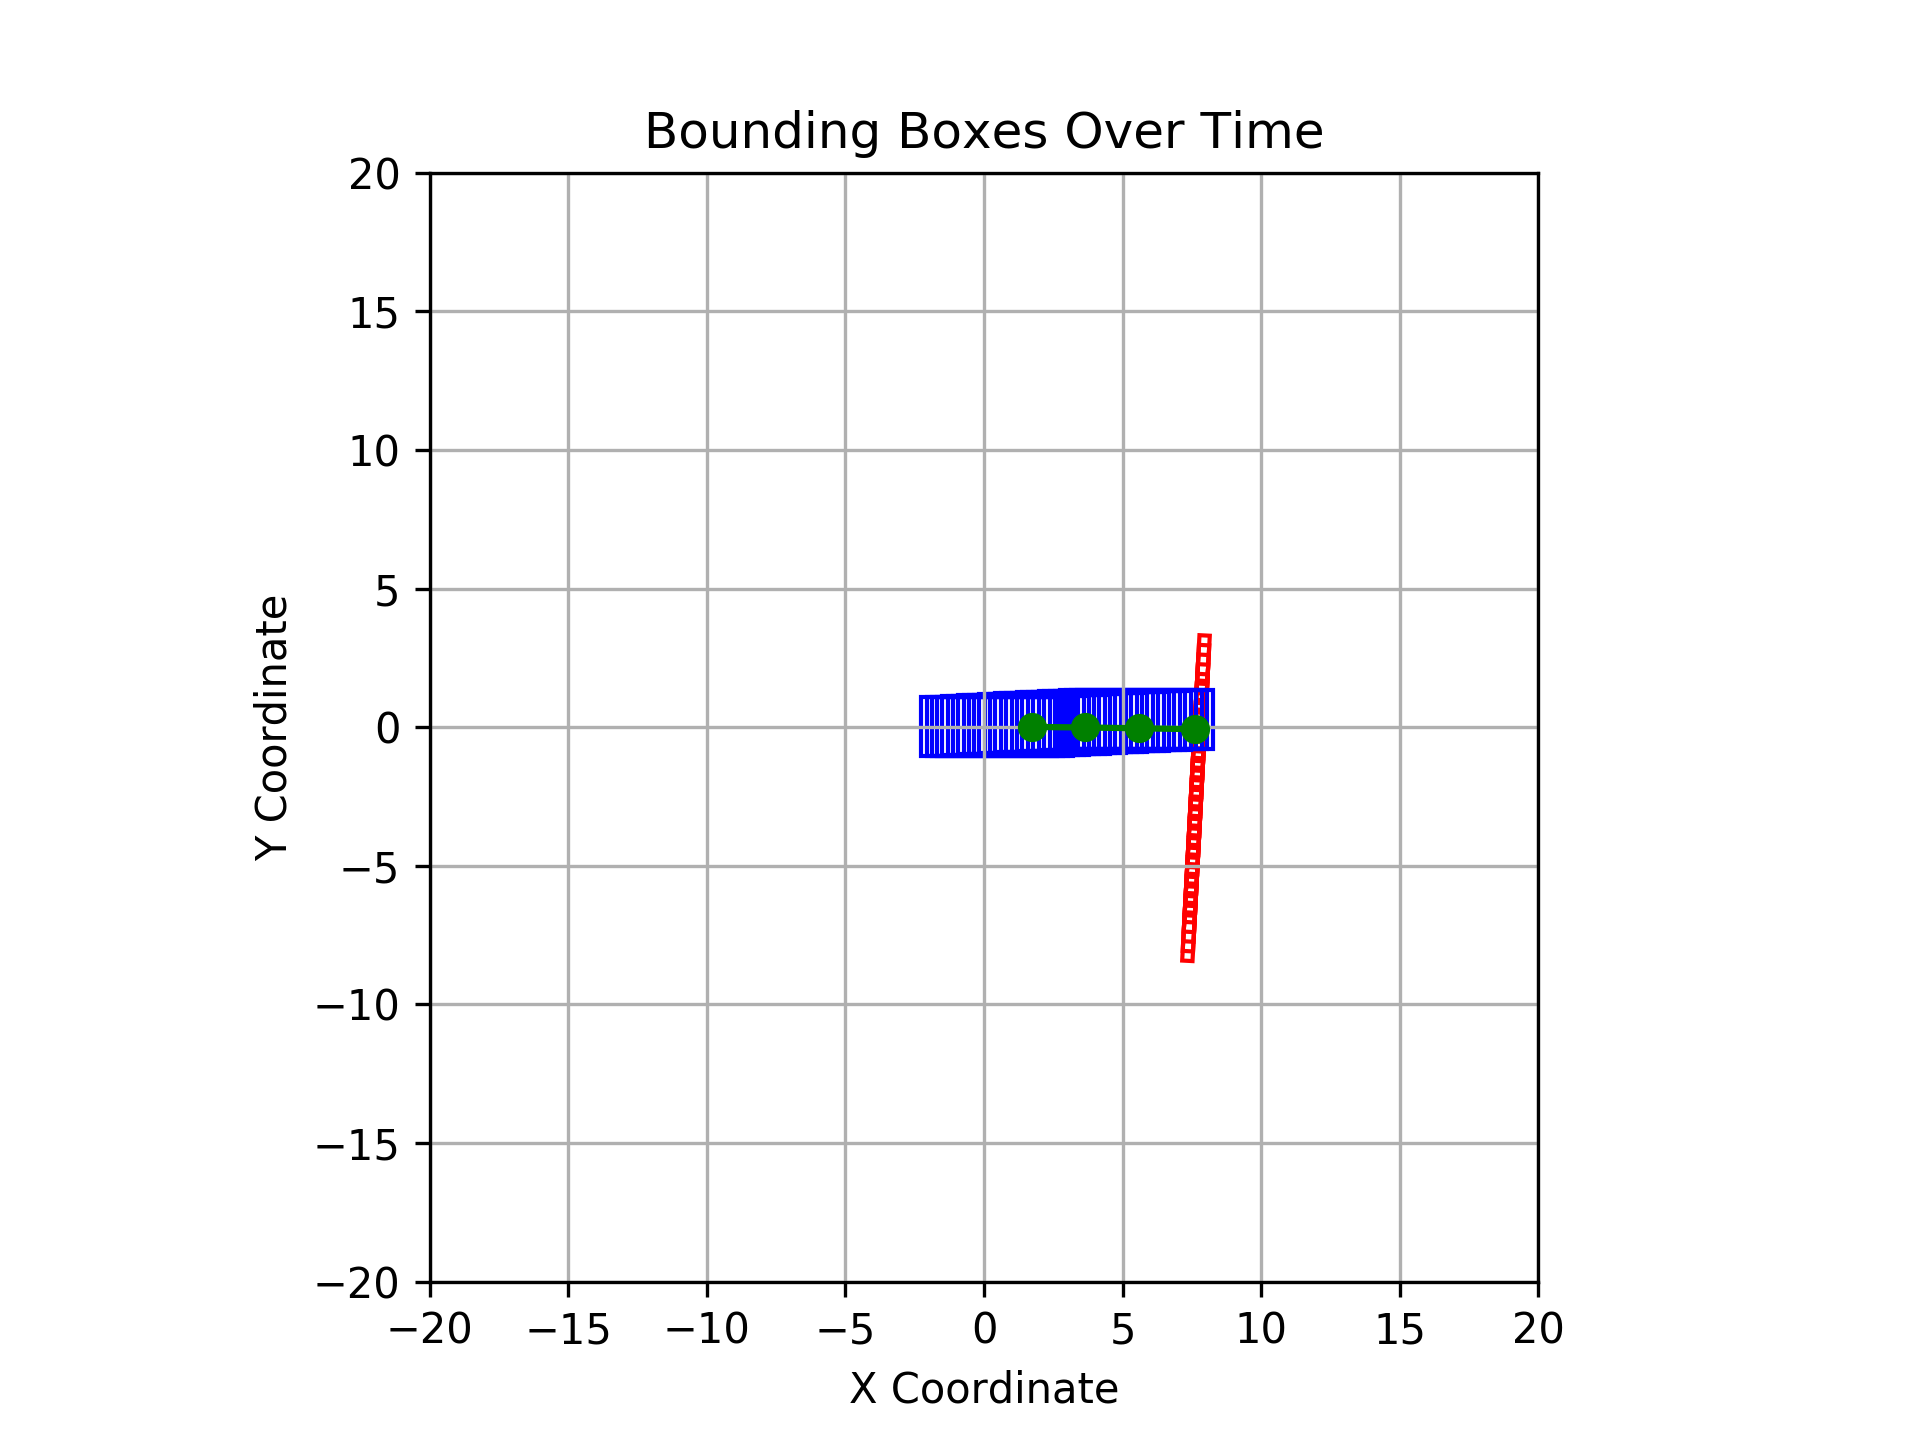
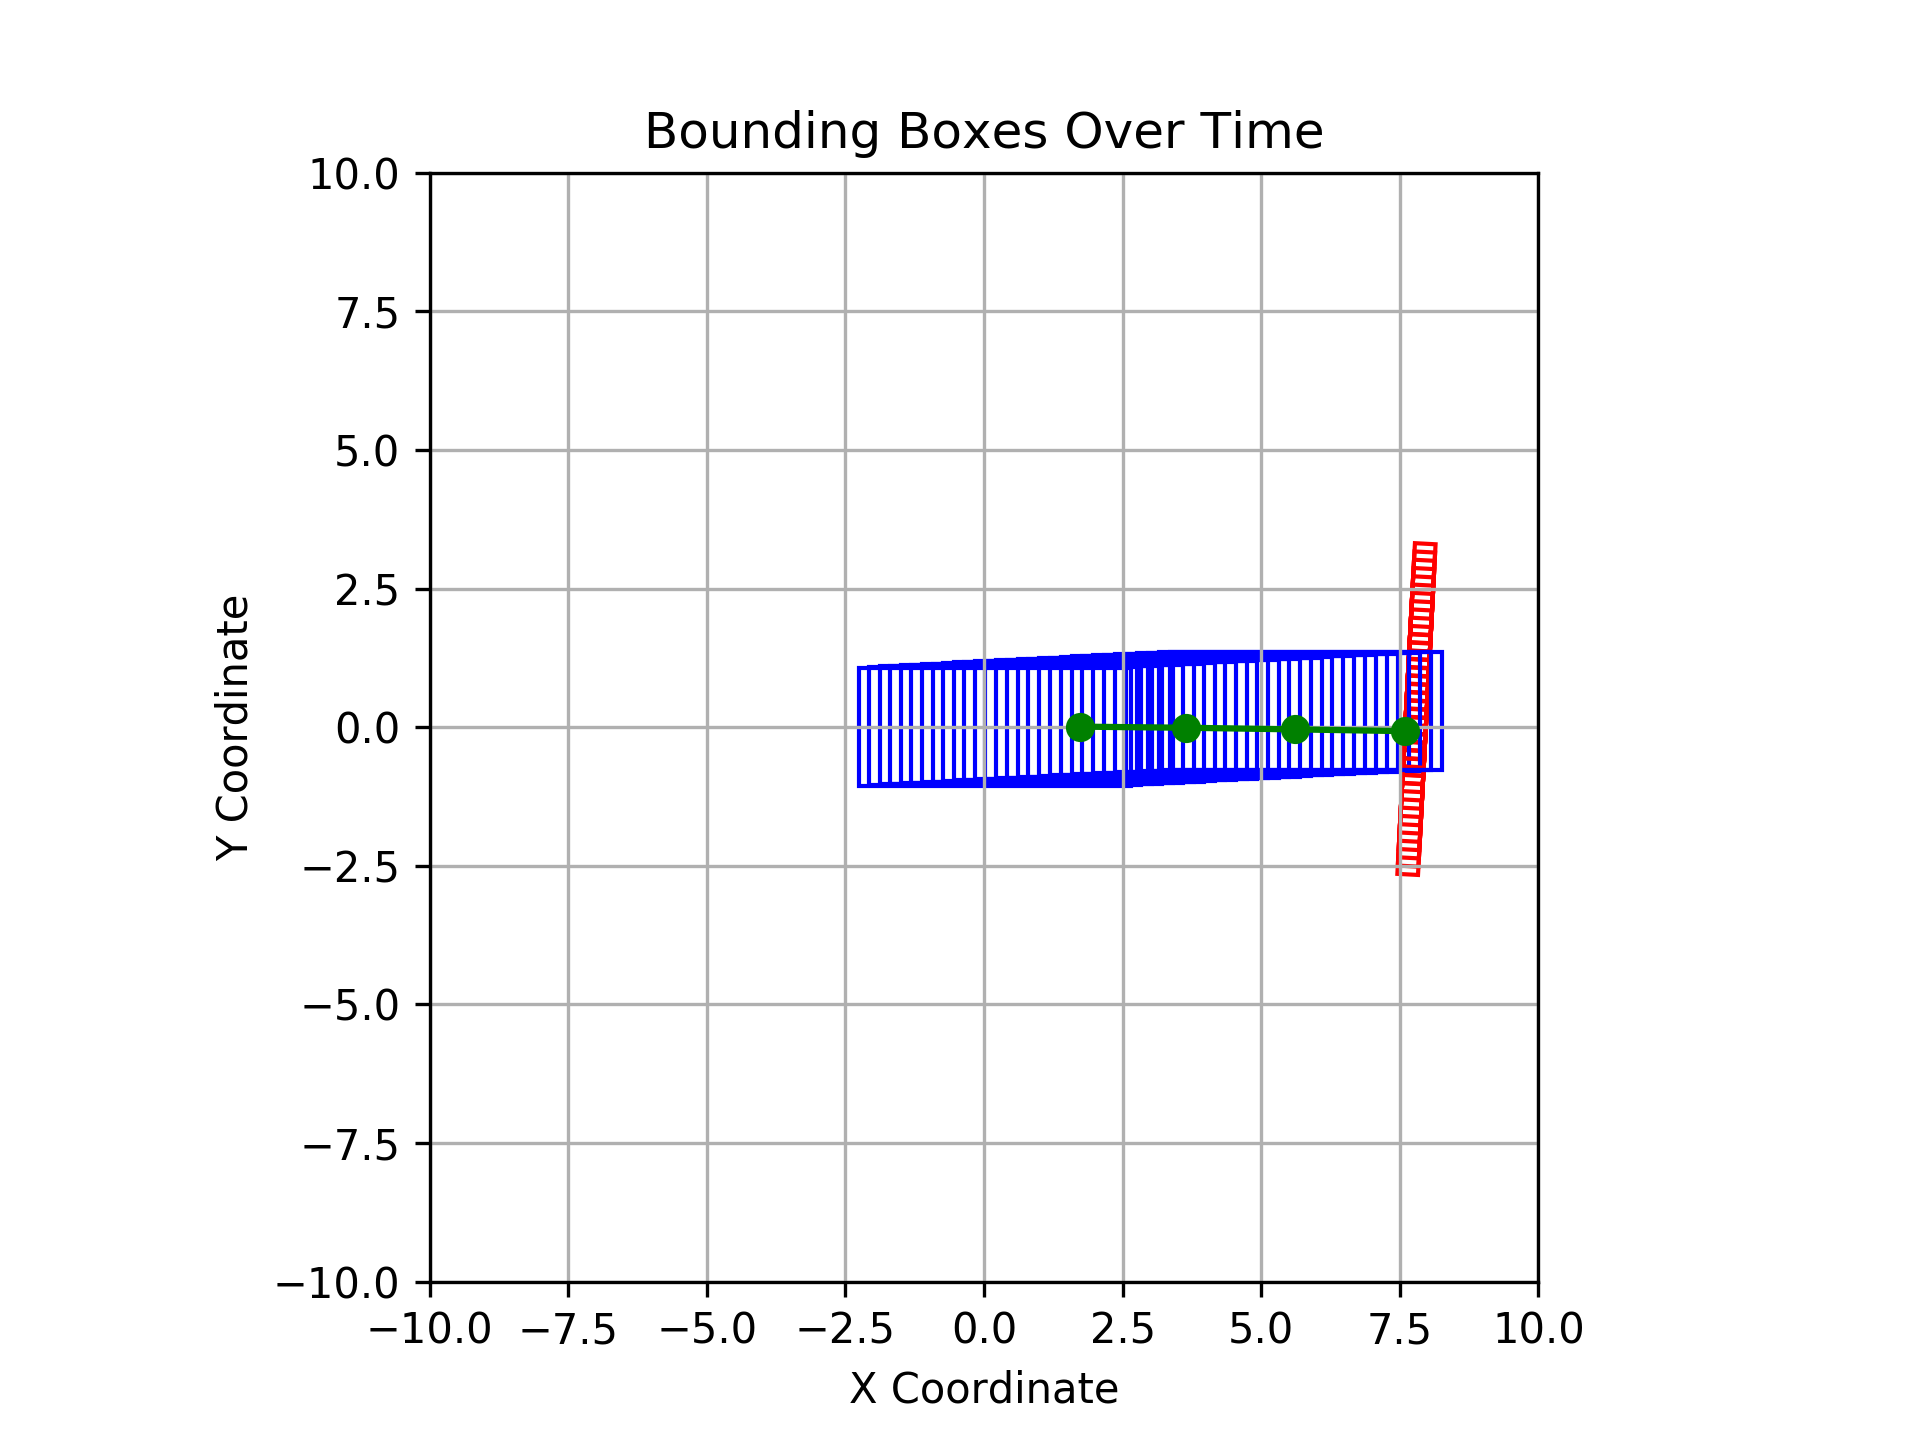
perception contracts

diff --git a/perception_contract/safety.py b/perception_contract/safety.py
@@ -3,6 +3,8 @@ import numpy as np
 import math
 from controller import control_pid, EgoModel
 import matplotlib.pyplot as plt
+from mpl_toolkits.mplot3d import Axes3D
+from mpl_toolkits.mplot3d.art3d import Poly3DCollection
 from sat import check_collision
 
 def is_wp_safe(pred_wps, ego_bbox, ego_yaw, ego_speed, other_bbox, other_forward, other_speed, safety_distance=1.0, time=2, fps=20):
@@ -63,7 +65,38 @@ def is_wp_safe(pred_wps, ego_bbox, ego_yaw, ego_speed, other_bbox, other_forward
     for i, bbox in other_bboxes.items():
         print(f"Time {i/fps:.2f}s: {bbox}")
 
-    # Add visualization of bounding boxes
+    def plot_3d_bboxes(obj_boxes, color, ax, label):
+        for t, box in enumerate(obj_boxes):
+            # Add the z (time) coordinate
+            box = [box[0], box[1], box[3], box[2]]
+            box_3d = [(x, y, t/40.0) for x, y in box]
+            poly = Poly3DCollection([box_3d], alpha=0.6)
+            poly.set_facecolor(color)
+            ax.add_collection3d(poly)
+            
+            # Optionally connect the center of each box with a line
+            # center = np.mean(box_3d, axis=0)
+            # ax.scatter(*center, color=color, label=label if t == 0 else "")
+            
+    fig = plt.figure()
+    ax = fig.add_subplot(111, projection='3d')
+    plot_3d_bboxes(list(ego_bboxes.values()), 'blue', ax, 'Ego Vehicle')
+    plot_3d_bboxes(list(other_bboxes.values()), 'red', ax, 'Other Vehicle')
+
+    ax.set_xlabel('X Coordinate')
+    ax.set_ylabel('Y Coordinate')
+    ax.set_zlabel('Time (s)')
+    ax.set_title('Bounding Boxes Over Time')
+    ax.set_xlim(-10, 10)
+    ax.set_ylim(-10, 10)
+    ax.set_zlim(0, 3)
+    ax.legend()
+    plt.grid()
+    plt.savefig('bounding_boxes_3d.png', dpi=300)
+    plt.show()
+
+    fig.clear()
+
     fig, ax = plt.subplots()
     for i in range(min((time * fps), len(ego_bboxes), len(other_bboxes))):
         ego_bbox_i = [ego_bboxes[i][0], ego_bboxes[i][1], ego_bboxes[i][3], ego_bboxes[i][2]]  # Ensure correct order
@@ -79,8 +112,8 @@ def is_wp_safe(pred_wps, ego_bbox, ego_yaw, ego_speed, other_bbox, other_forward
     # Draw the predicted waypoints
     pred_wps = np.array(pred_wps_copy)
     ax.plot(pred_wps[:, 0], pred_wps[:, 1], marker='o', color='green', label='Predicted Waypoints')
-    ax.set_xlim(-20, 20)
-    ax.set_ylim(-20, 20)
+    ax.set_xlim(-10, 10)
+    ax.set_ylim(-10, 10)
     ax.set_aspect('equal', adjustable='box')
     ax.set_title('Bounding Boxes Over Time')
     ax.set_xlabel('X Coordinate')
@@ -88,6 +121,7 @@ def is_wp_safe(pred_wps, ego_bbox, ego_yaw, ego_speed, other_bbox, other_forward
     # ax.legend()
     plt.grid()
     plt.savefig('bounding_boxes.png', dpi=300)
+    plt.show()
 
 
     for i in range(min((time * fps), len(ego_bboxes), len(other_bboxes))):
@@ -112,7 +146,7 @@ ego_yaw = 0.054454
 ego_speed = 3.7946761
 other_bbox = np.array([(7.773118495941162, 3.3192648887634277), (8.145111083984375, 3.299520492553711), (7.686257362365723, 1.6841745376586914), (8.058249473571777, 1.6644301414489746)])
 other_forward = np.array([-0.05287253, -0.99528052])
-other_speed = 7
+other_speed = 3
 
 is_wp_safe(pred_wps, ego_bbox, ego_yaw, ego_speed, other_bbox, other_forward, other_speed)
     